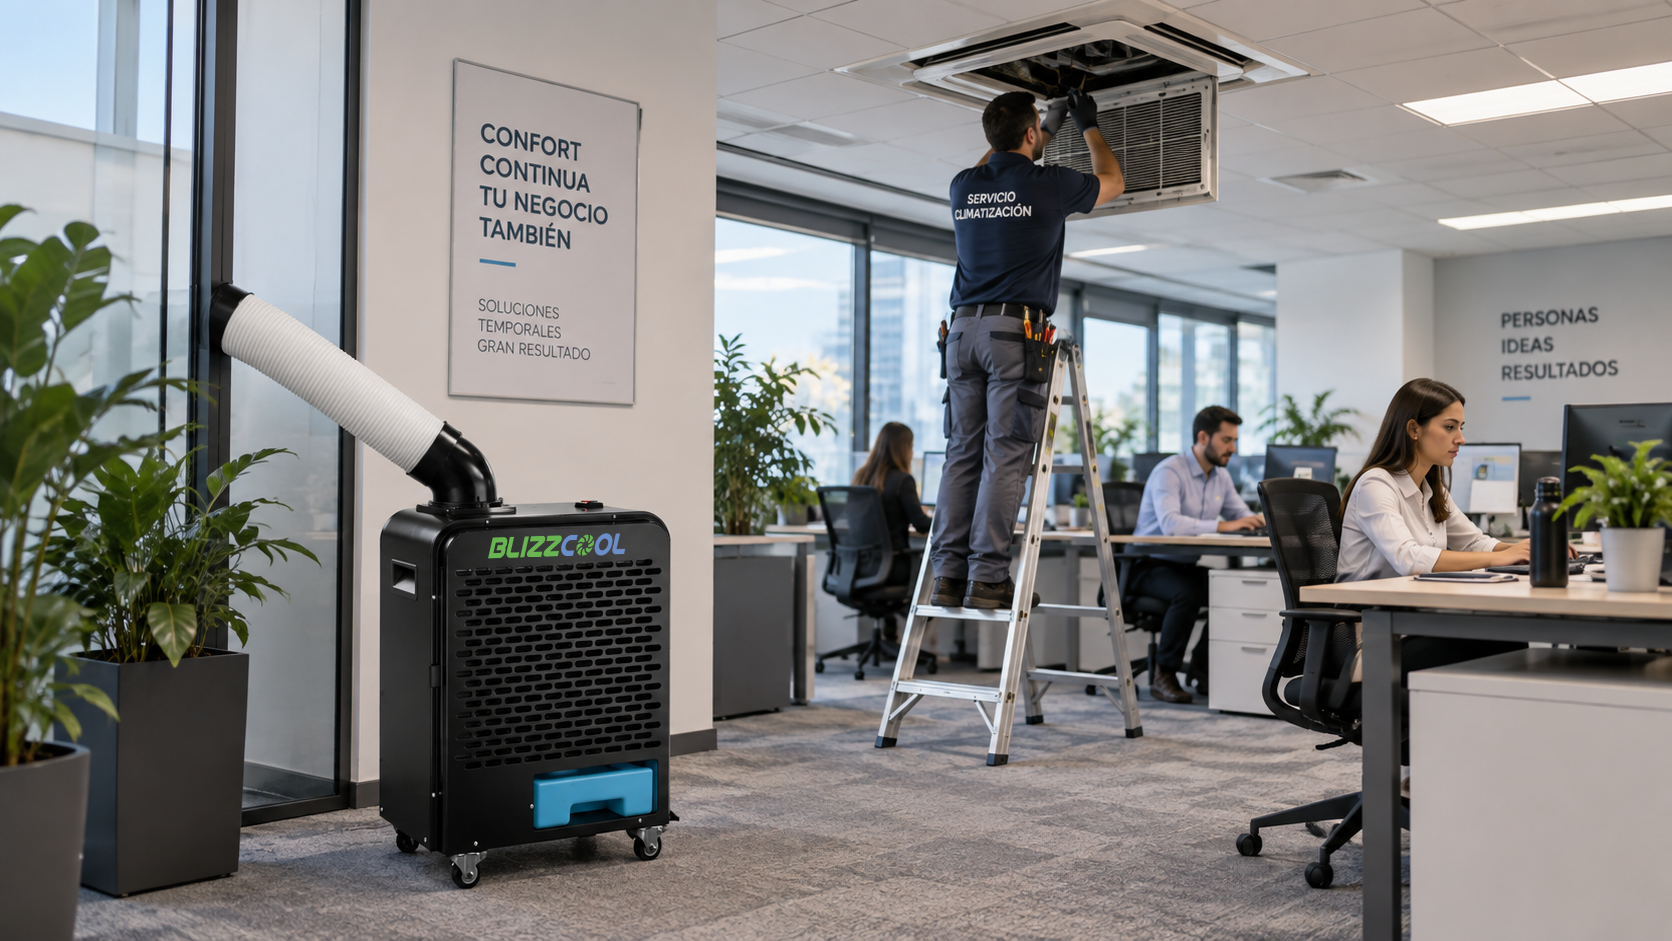
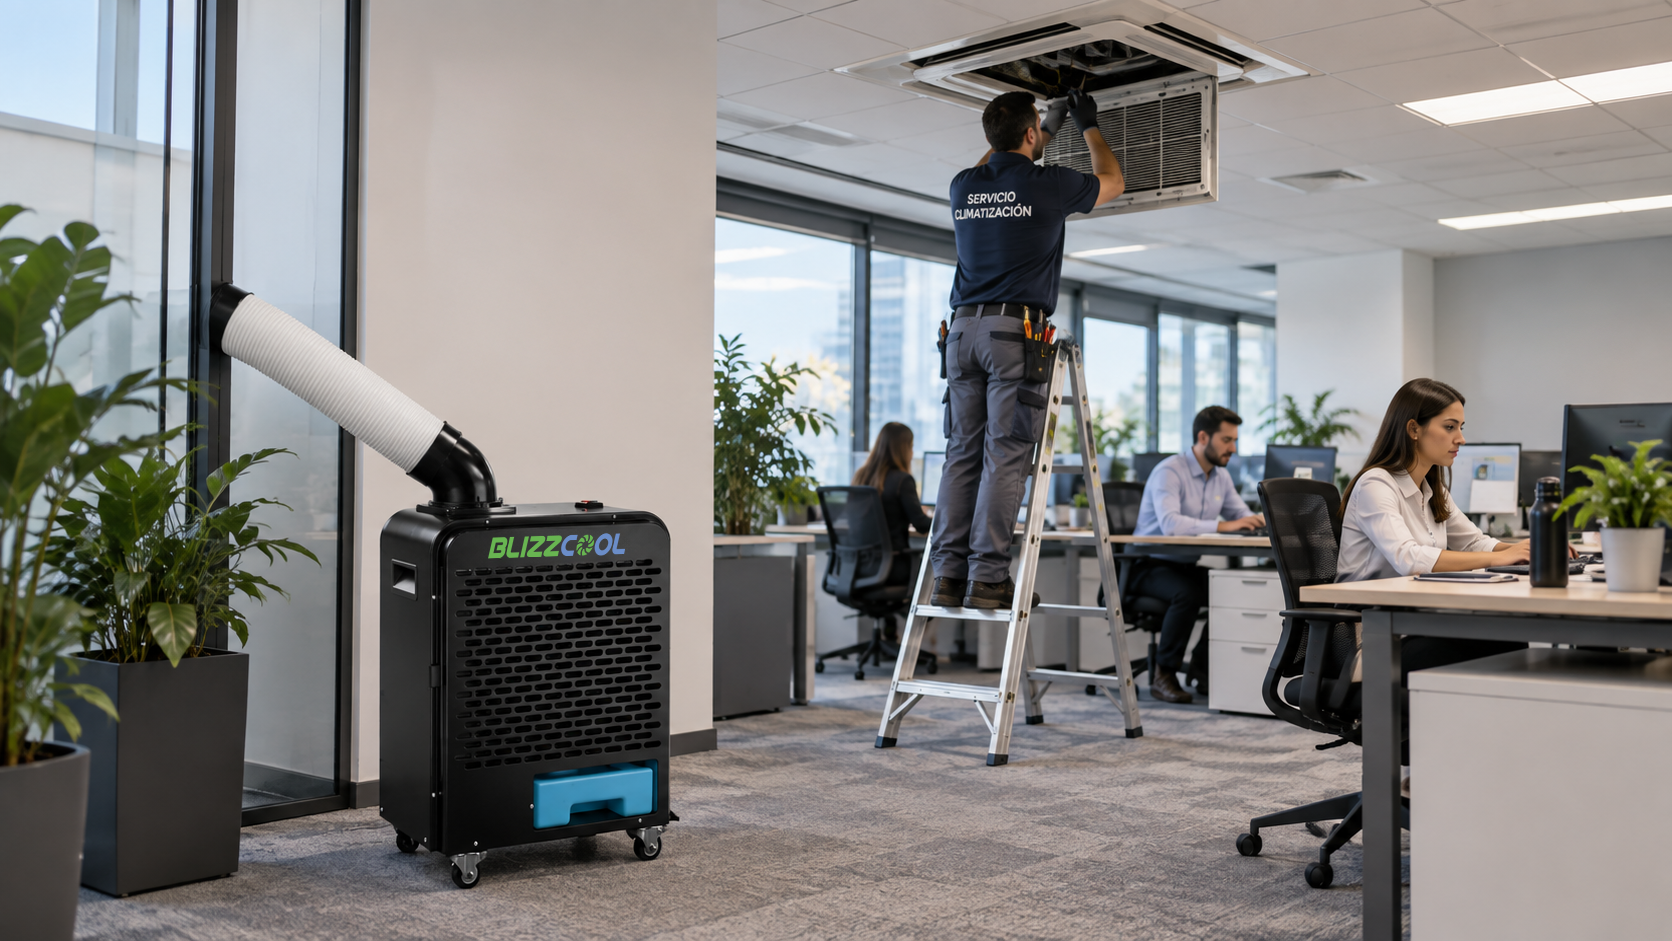
Galería de producto: pantalla completa con navegación, colores de marca exactos
- Ficha de producto: foto principal en pantalla completa al hacer clic, con flechas, teclado y gestos táctiles para navegar entre fotos
- Miniaturas y foto principal ahora rellenan su recuadro cuadrado (object-fit: cover); en pantalla completa conservan su proporción original
- Corregido el botón "Ver producto" (antes "Ficha técnica") en las tarjetas del catálogo
- Colores de marca: --blue y --green ahora son exactamente #6b8ec8 y #69b551 en vez de una variante oscurecida, así que título de producto, botón de idioma, "Solicitar presupuesto", banda de presupuesto final y demás usos coinciden con la paleta facilitada

diff --git a/styles.css b/styles.css
@@ -11,14 +11,14 @@
   --ink-soft: #5b6779;
   --ink-faint: #8e98a8;
   --line: #dde3ec;
-  /* Colores de marca (logo): verde #69B551 y azul #6B8EC8 */
+  /* Colores de marca exactos: verde #69B551 y azul #6B8EC8 */
   --green-brand: #69b551;
-  --green: #4b8a37;        /* verde oscurecido: botones con texto blanco (contraste AA) */
-  --green-hover: #3d732b;
+  --green: #69b551;        /* igual a green-brand: color de marca exacto */
+  --green-hover: #4b8a37;  /* solo para :hover, más oscuro que el verde de marca */
   --green-soft: #f3f9f1;
   --blue-brand: #6b8ec8;
-  --blue: #4775c1;         /* azul oscurecido para enlaces y texto pequeño */
-  --blue-dark: #2f5593;    /* títulos y bandas */
+  --blue: #6b8ec8;         /* igual a blue-brand: color de marca exacto */
+  --blue-dark: #4775c1;    /* solo para :hover y texto pequeño, más oscuro que el azul de marca */
   --blue-soft: #f3f6fb;
   --radius: 6px;
   --radius-lg: 12px;
@@ -138,7 +138,7 @@ button { font-family: inherit; }
   pointer-events: none;
 }
 
-.lang-seg .lang-opt.active { background: var(--blue-dark); color: #fff; }
+.lang-seg .lang-opt.active { background: var(--blue-brand); color: #fff; }
 .lang-seg:hover .lang-opt:not(.active) { color: var(--blue-dark); }
 
 /* ---------- Cajón de menú móvil ---------- */
@@ -292,7 +292,7 @@ button { font-family: inherit; }
 
 .mobile-menu-contact {
   margin-top: auto;
-  background: var(--blue-dark);
+  background: var(--blue-brand);
   color: #fff;
   padding: 18px;
   display: flex;
@@ -381,7 +381,7 @@ button { font-family: inherit; }
   line-height: 1.08;
   letter-spacing: -0.015em;
   margin: 0 0 12px;
-  color: var(--blue-dark);
+  color: var(--blue-brand);
   max-width: 16ch;
 }
 
@@ -457,7 +457,7 @@ button { font-family: inherit; }
   font-size: 22px;
   margin: 0 0 2px;
   letter-spacing: -0.01em;
-  color: var(--blue-dark);
+  color: var(--blue-brand);
 }
 
 .cat-count { font-family: var(--font-mono); font-size: 12px; color: var(--ink-faint); margin: 0 0 14px; }
@@ -589,7 +589,7 @@ button { font-family: inherit; }
 .btn-ghost { background: transparent; border: 1px solid rgba(255,255,255,0.35); color: #fff; }
 
 .cta-band {
-  background: linear-gradient(135deg, var(--blue-dark) 0%, var(--blue-brand) 100%);
+  background: var(--blue-brand);
   color: #fff;
   padding: 40px 0;
   margin-top: 16px;
@@ -710,7 +710,7 @@ body.has-buy-bar .float-stack { bottom: calc(86px + env(safe-area-inset-bottom))
   justify-content: center;
 }
 
-.product-gallery-main img { width: 100%; height: 100%; object-fit: contain; padding: 14px; }
+.product-gallery-main img { width: 100%; height: 100%; object-fit: cover; cursor: zoom-in; }
 
 .product-thumbs { display: flex; flex-wrap: wrap; gap: 8px; }
 
@@ -727,9 +727,63 @@ body.has-buy-bar .float-stack { bottom: calc(86px + env(safe-area-inset-bottom))
   transition: border-color 0.15s ease;
 }
 
-.product-thumb img { width: 100%; height: 100%; object-fit: contain; padding: 6px; display: block; }
+.product-thumb img { width: 100%; height: 100%; object-fit: cover; display: block; }
 .product-thumb:hover { border-color: var(--blue); }
-.product-thumb.active { border-color: var(--blue-dark); box-shadow: 0 0 0 1px var(--blue-dark); }
+.product-thumb.active { border-color: var(--blue-brand); box-shadow: 0 0 0 1px var(--blue-brand); }
+
+/* ---------- Lightbox de fotos de producto ---------- */
+
+.photo-lightbox { position: fixed; inset: 0; z-index: 70; display: flex; align-items: center; justify-content: center; padding: 24px; }
+.photo-lightbox[hidden] { display: none; }
+.photo-lightbox-backdrop { position: absolute; inset: 0; background: rgba(10, 16, 26, 0.88); }
+.photo-lightbox img { position: relative; max-width: 100%; max-height: 100%; object-fit: contain; border-radius: var(--radius); }
+
+.photo-lightbox-close {
+  position: absolute;
+  top: 16px;
+  right: 16px;
+  z-index: 1;
+  width: 40px;
+  height: 40px;
+  border: none;
+  border-radius: 50%;
+  background: rgba(255, 255, 255, 0.15);
+  color: #fff;
+  font-size: 22px;
+  line-height: 1;
+  cursor: pointer;
+}
+
+.photo-lightbox-close:hover { background: rgba(255, 255, 255, 0.28); }
+
+.photo-lightbox-nav {
+  position: absolute;
+  top: 50%;
+  transform: translateY(-50%);
+  z-index: 1;
+  width: 48px;
+  height: 48px;
+  border: none;
+  border-radius: 50%;
+  background: rgba(255, 255, 255, 0.15);
+  color: #fff;
+  font-size: 28px;
+  line-height: 1;
+  display: flex;
+  align-items: center;
+  justify-content: center;
+  cursor: pointer;
+}
+
+.photo-lightbox-nav:hover { background: rgba(255, 255, 255, 0.28); }
+.photo-lightbox-prev { left: 12px; }
+.photo-lightbox-next { right: 12px; }
+
+@media (max-width: 599px) {
+  .photo-lightbox-nav { width: 40px; height: 40px; font-size: 22px; }
+}
+
+body.lightbox-open { overflow: hidden; }
 
 .product-info .card-model { font-size: 12px; margin-bottom: 8px; }
 
@@ -739,7 +793,7 @@ body.has-buy-bar .float-stack { bottom: calc(86px + env(safe-area-inset-bottom))
   letter-spacing: -0.015em;
   line-height: 1.1;
   margin: 0 0 10px;
-  color: var(--blue-dark);
+  color: var(--blue-brand);
 }
 
 .product-info > p.lead { color: var(--ink-soft); font-size: 15.5px; max-width: 48ch; margin: 0 0 18px; }
@@ -759,7 +813,7 @@ body.has-buy-bar .float-stack { bottom: calc(86px + env(safe-area-inset-bottom))
 .buy-panel .btn:last-child { margin-bottom: 0; }
 
 .section-block { padding: 8px var(--gutter) 36px; border-top: 1px solid var(--line); }
-.section-block h2 { font-family: var(--font-head); font-size: 19px; margin: 26px 0 12px; color: var(--blue-dark); }
+.section-block h2 { font-family: var(--font-head); font-size: 19px; margin: 26px 0 12px; color: var(--blue-brand); }
 .section-block > p { color: var(--ink-soft); max-width: 68ch; margin: 0; }
 
 .specs-table {
@@ -829,7 +883,7 @@ body.has-buy-bar .float-stack { bottom: calc(86px + env(safe-area-inset-bottom))
    ========================================================= */
 
 .contact-hero { padding: 34px var(--gutter) 8px; }
-.contact-hero h1 { font-family: var(--font-head); font-size: clamp(28px, 6vw, 40px); margin: 0 0 8px; color: var(--blue-dark); }
+.contact-hero h1 { font-family: var(--font-head); font-size: clamp(28px, 6vw, 40px); margin: 0 0 8px; color: var(--blue-brand); }
 .contact-hero p { color: var(--ink-soft); font-size: 15.5px; max-width: 52ch; margin: 0; }
 
 .contact-grid { display: grid; grid-template-columns: 1fr; gap: 10px; margin: 22px auto 8px; padding: 0 var(--gutter); }
@@ -849,7 +903,7 @@ body.has-buy-bar .float-stack { bottom: calc(86px + env(safe-area-inset-bottom))
 .contact-directions { margin-top: 4px; font-size: 13.5px; }
 .contact-actions { padding: 10px var(--gutter) 40px; }
 .contact-panel { max-width: 480px; }
-.contact-panel h2 { font-family: var(--font-head); font-size: 19px; margin: 0 0 8px; color: var(--blue-dark); }
+.contact-panel h2 { font-family: var(--font-head); font-size: 19px; margin: 0 0 8px; color: var(--blue-brand); }
 .contact-panel p { color: var(--ink-soft); font-size: 14px; margin: 0 0 16px; }
 .contact-panel .btn { width: 100%; margin-bottom: 8px; }
 .contact-panel .btn:last-child { margin-bottom: 0; }
@@ -1031,7 +1085,7 @@ body.has-buy-bar .float-stack { bottom: calc(86px + env(safe-area-inset-bottom))
 }
 
 .share-card .drawer-close { position: absolute; top: 12px; right: 12px; }
-.share-card h2 { font-family: var(--font-head); font-size: 20px; margin: 0 28px 6px 0; color: var(--blue-dark); text-align: left; }
+.share-card h2 { font-family: var(--font-head); font-size: 20px; margin: 0 28px 6px 0; color: var(--blue-brand); text-align: left; }
 .share-card p { color: var(--ink-soft); font-size: 14px; margin: 0 0 14px; text-align: left; }
 
 .share-qr { display: flex; justify-content: center; }

diff --git a/catalogo.js b/catalogo.js
@@ -34,7 +34,7 @@ const STR = {
     ctaProductTitle: "¿Quieres presupuesto para este equipo?",
     ctaProductText: "Indícanos cantidad, ubicación y plazo. Te respondemos con la propuesta ajustada a tu caso.",
     ctaProductBtn: "Pedir presupuesto",
-    fichaTecnicaLink: "Ficha técnica",
+    fichaTecnicaLink: "Ver producto",
     precioConsultar: "Precio a consultar",
     ivaInclNote: "IVA incl.", sinIvaNote: "sin IVA",
     ivaInclNoteBig: "· IVA incluido (21%)", sinIvaNoteBig: "· precio sin IVA",
@@ -71,6 +71,8 @@ const STR = {
     compartirTexto: "Escanea el código con la cámara del móvil o copia el enlace.",
     copiarEnlace: "Copiar enlace", enlaceCopiado: "Enlace copiado", compartirNativo: "Compartir…",
     descargarQR: "Descargar QR", cerrar: "Cerrar",
+    verEnGrande: "Ver foto en grande",
+    fotoAnterior: "Foto anterior", fotoSiguiente: "Foto siguiente",
   },
   en: {
     navInicio: "Home", navCatalogo: "Catalog", navContacto: "Contact",
@@ -84,7 +86,7 @@ const STR = {
     ctaProductTitle: "Want a quote for this unit?",
     ctaProductText: "Tell us the quantity, location and timeframe. We'll get back to you with a proposal tailored to your case.",
     ctaProductBtn: "Request a quote",
-    fichaTecnicaLink: "Datasheet",
+    fichaTecnicaLink: "View product",
     precioConsultar: "Price on request",
     ivaInclNote: "VAT incl.", sinIvaNote: "excl. VAT",
     ivaInclNoteBig: "· VAT included (21%)", sinIvaNoteBig: "· price excl. VAT",
@@ -121,6 +123,8 @@ const STR = {
     compartirTexto: "Scan the code with your phone camera or copy the link.",
     copiarEnlace: "Copy link", enlaceCopiado: "Link copied", compartirNativo: "Share…",
     descargarQR: "Download QR", cerrar: "Close",
+    verEnGrande: "View full-size photo",
+    fotoAnterior: "Previous photo", fotoSiguiente: "Next photo",
   },
 };
 function t(key) {
@@ -196,23 +200,85 @@ function productMediaHTML(p) {
         )
         .join("")}</div>`
     : "";
+  const navHTML = fotos.length > 1
+    ? `<button type="button" class="photo-lightbox-nav photo-lightbox-prev js-lightbox-prev" aria-label="${t("fotoAnterior")}">‹</button>
+       <button type="button" class="photo-lightbox-nav photo-lightbox-next js-lightbox-next" aria-label="${t("fotoSiguiente")}">›</button>`
+    : "";
   return `
     <div class="product-gallery">
-      <div class="product-gallery-main"><img id="product-main-photo" src="${fotos[0]}" alt="${p.nombre}"></div>
+      <div class="product-gallery-main"><img id="product-main-photo" src="${fotos[0]}" alt="${p.nombre}" tabindex="0" role="button" aria-label="${t("verEnGrande")}"></div>
       ${thumbsHTML}
+    </div>
+    <div id="photo-lightbox" class="photo-lightbox" hidden>
+      <div class="photo-lightbox-backdrop js-lightbox-close"></div>
+      <button type="button" class="photo-lightbox-close js-lightbox-close" aria-label="${t("cerrar")}">×</button>
+      ${navHTML}
+      <img id="photo-lightbox-img" src="" alt="">
     </div>`;
 }
 
 function initProductGallery() {
   const main = document.getElementById("product-main-photo");
-  const thumbs = document.querySelectorAll(".product-thumb");
-  if (!main || !thumbs.length) return;
-  thumbs.forEach((btn) => {
-    btn.addEventListener("click", () => {
-      main.src = btn.getAttribute("data-src");
-      thumbs.forEach((b) => b.classList.toggle("active", b === btn));
-    });
+  if (!main) return;
+
+  const thumbs = Array.from(document.querySelectorAll(".product-thumb"));
+  const fotos = thumbs.length ? thumbs.map((b) => b.getAttribute("data-src")) : [main.getAttribute("src")];
+  let current = 0;
+
+  const setMain = (index) => {
+    current = (index + fotos.length) % fotos.length;
+    main.src = fotos[current];
+    thumbs.forEach((b, i) => b.classList.toggle("active", i === current));
+  };
+
+  thumbs.forEach((btn, i) => btn.addEventListener("click", () => setMain(i)));
+
+  const lightbox = document.getElementById("photo-lightbox");
+  const lightboxImg = document.getElementById("photo-lightbox-img");
+  if (!lightbox || !lightboxImg) return;
+
+  // Se mueve a <body> para escapar del contexto de apilamiento del contenedor sticky de la galería
+  document.body.appendChild(lightbox);
+
+  const showInLightbox = (index) => {
+    setMain(index);
+    lightboxImg.src = fotos[current];
+    lightboxImg.alt = main.alt;
+  };
+  const open = () => {
+    showInLightbox(current);
+    lightbox.hidden = false;
+    document.body.classList.add("lightbox-open");
+  };
+  const close = () => {
+    lightbox.hidden = true;
+    document.body.classList.remove("lightbox-open");
+  };
+  const prev = () => showInLightbox(current - 1);
+  const next = () => showInLightbox(current + 1);
+
+  main.addEventListener("click", open);
+  main.addEventListener("keydown", (e) => {
+    if (e.key === "Enter" || e.key === " ") { e.preventDefault(); open(); }
   });
+  lightbox.querySelectorAll(".js-lightbox-close").forEach((el) => el.addEventListener("click", close));
+  lightbox.querySelectorAll(".js-lightbox-prev").forEach((el) => el.addEventListener("click", (e) => { e.stopPropagation(); prev(); }));
+  lightbox.querySelectorAll(".js-lightbox-next").forEach((el) => el.addEventListener("click", (e) => { e.stopPropagation(); next(); }));
+  document.addEventListener("keydown", (e) => {
+    if (lightbox.hidden) return;
+    if (e.key === "Escape") close();
+    else if (e.key === "ArrowLeft") prev();
+    else if (e.key === "ArrowRight") next();
+  });
+
+  let touchStartX = null;
+  lightbox.addEventListener("touchstart", (e) => { touchStartX = e.changedTouches[0].clientX; }, { passive: true });
+  lightbox.addEventListener("touchend", (e) => {
+    if (touchStartX === null) return;
+    const dx = e.changedTouches[0].clientX - touchStartX;
+    if (Math.abs(dx) > 40) (dx > 0 ? prev() : next());
+    touchStartX = null;
+  }, { passive: true });
 }
 
 function cardHTML(p) {

diff --git a/index.html b/index.html
@@ -7,7 +7,7 @@
 <meta name="description" content="Catálogo técnico de equipos Blizzcool: aire acondicionado industrial portátil, enfriadores evaporativos, nebulizadores, ventilación industrial y ropa térmica.">
 <link rel="preconnect" href="https://fonts.googleapis.com">
 <link href="https://fonts.googleapis.com/css2?family=Space+Grotesk:wght@500;600;700&family=Inter:wght@400;500;600&family=JetBrains+Mono:wght@400;500&display=swap" rel="stylesheet">
-<link rel="stylesheet" href="styles.css?v=20260914f">
+<link rel="stylesheet" href="styles.css?v=20260914i">
 <link rel="icon" href="https://blizzcool.es/wp-content/uploads/2026/06/cropped-ICONOTIPO_WEB-270x270.png">
 </head>
 <body>
@@ -48,8 +48,8 @@
 <footer class="site-footer" id="site-footer"></footer>
 
 <script src="https://cdnjs.cloudflare.com/ajax/libs/qrcode-generator/1.4.4/qrcode.min.js"></script>
-<script src="productos.js?v=20260914f"></script>
-<script src="catalogo.js?v=20260914f"></script>
+<script src="productos.js?v=20260914i"></script>
+<script src="catalogo.js?v=20260914i"></script>
 <script>
   window.renderPage = renderIndex;
   renderPage();

diff --git a/contacto.html b/contacto.html
@@ -7,7 +7,7 @@
 <meta name="description" content="Contacta con Blizzcool: email, teléfono, WhatsApp y dirección para presupuestos y asesoramiento técnico.">
 <link rel="preconnect" href="https://fonts.googleapis.com">
 <link href="https://fonts.googleapis.com/css2?family=Space+Grotesk:wght@500;600;700&family=Inter:wght@400;500;600&family=JetBrains+Mono:wght@400;500&display=swap" rel="stylesheet">
-<link rel="stylesheet" href="styles.css?v=20260914f">
+<link rel="stylesheet" href="styles.css?v=20260914i">
 <link rel="icon" href="https://blizzcool.es/wp-content/uploads/2026/06/cropped-ICONOTIPO_WEB-270x270.png">
 </head>
 <body>
@@ -19,8 +19,8 @@
 <footer class="site-footer" id="site-footer"></footer>
 
 <script src="https://cdnjs.cloudflare.com/ajax/libs/qrcode-generator/1.4.4/qrcode.min.js"></script>
-<script src="productos.js?v=20260914f"></script>
-<script src="catalogo.js?v=20260914f"></script>
+<script src="productos.js?v=20260914i"></script>
+<script src="catalogo.js?v=20260914i"></script>
 <script>
   window.renderPage = renderContacto;
   renderPage();

diff --git a/producto.html b/producto.html
@@ -6,7 +6,7 @@
 <title>Ficha técnica · Blizzcool</title>
 <link rel="preconnect" href="https://fonts.googleapis.com">
 <link href="https://fonts.googleapis.com/css2?family=Space+Grotesk:wght@500;600;700&family=Inter:wght@400;500;600&family=JetBrains+Mono:wght@400;500&display=swap" rel="stylesheet">
-<link rel="stylesheet" href="styles.css?v=20260914f">
+<link rel="stylesheet" href="styles.css?v=20260914i">
 <link rel="icon" href="https://blizzcool.es/wp-content/uploads/2026/06/cropped-ICONOTIPO_WEB-270x270.png">
 </head>
 <body class="has-buy-bar">
@@ -28,8 +28,8 @@
 <footer class="site-footer" id="site-footer"></footer>
 
 <script src="https://cdnjs.cloudflare.com/ajax/libs/qrcode-generator/1.4.4/qrcode.min.js"></script>
-<script src="productos.js?v=20260914f"></script>
-<script src="catalogo.js?v=20260914f"></script>
+<script src="productos.js?v=20260914i"></script>
+<script src="catalogo.js?v=20260914i"></script>
 <script>
   window.renderPage = renderProducto;
   renderPage();
